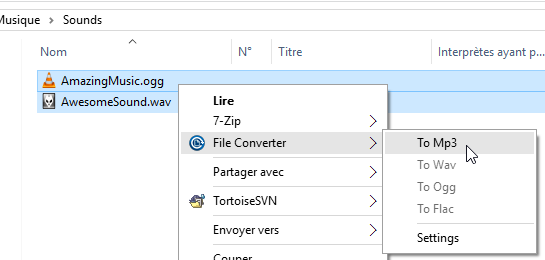
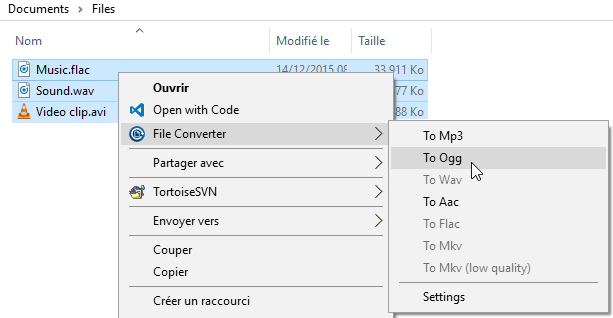
Update screenshots

diff --git a/index.html b/index.html
@@ -9,15 +9,15 @@
     <link rel="stylesheet" type="text/css" href="stylesheets/stylesheet.css" media="screen">
     <link rel="stylesheet" type="text/css" href="stylesheets/github-light.css" media="screen">
 
-  <script>
-    (function(i,s,o,g,r,a,m){i['GoogleAnalyticsObject']=r;i[r]=i[r]||function(){
-    (i[r].q=i[r].q||[]).push(arguments)},i[r].l=1*new Date();a=s.createElement(o),
-    m=s.getElementsByTagName(o)[0];a.async=1;a.src=g;m.parentNode.insertBefore(a,m)
-    })(window,document,'script','//www.google-analytics.com/analytics.js','ga');
-  
-    ga('create', 'UA-71411543-1', 'auto');
-    ga('send', 'pageview');
-  </script>
+    <script>
+      (function(i,s,o,g,r,a,m){i['GoogleAnalyticsObject']=r;i[r]=i[r]||function(){
+      (i[r].q=i[r].q||[]).push(arguments)},i[r].l=1*new Date();a=s.createElement(o),
+      m=s.getElementsByTagName(o)[0];a.async=1;a.src=g;m.parentNode.insertBefore(a,m)
+      })(window,document,'script','//www.google-analytics.com/analytics.js','ga');
+    
+      ga('create', 'UA-71411543-1', 'auto');
+      ga('send', 'pageview');
+    </script>
   </head>
   <body>
     <section class="page-header">
@@ -53,17 +53,17 @@
     <tr>
       <td>Audio</td>
       <td>aiff, ape, avi, bik, cda, flac, flv, m4a, mkv, mov, mp3, mp4, ogg, wav, wma</td>
-      <td>FLAC, AAC, OGG, MP3, WAV</td>
+      <td>flac, aac, ogg, mp3, wav</td>
     </tr>
     <tr>
       <td>Video</td>
       <td>avi, bik, flv, mkv, mov</td>
-      <td>MKV</td>
+      <td>mkv</td>
     </tr>
     <tr>
       <td>Image</td>
       <td>bmp, ico, jpg, jpeg, png, tiff</td>
-      <td>PNG, JPG, ICO</td>
+      <td>png, jpg, ico</td>
     </tr>
   </tbody>
 </table>
@@ -86,8 +86,8 @@
   Downloads
 </h2>
 
-<p>Windows 64 bits installer: <a href="download.html">FileConverter-0.3-x64-setup.msi</a> (~16 Mo)</p>
-<p>Sources (C#/WPF project): <a href="https://github.com/Tichau/FileConverter/tarball/master">FileConverter-v0.3.tar.gz</a> (~11 Mo)</p>
+<p>Windows 64 bits installer: <a href="download.html">FileConverter-0.4-x64-setup.msi</a> (~16 Mo)</p>
+<p>Sources (C#/WPF project): <a href="https://github.com/Tichau/FileConverter/tarball/master">FileConverter-v0.4.tar.gz</a> (~11 Mo)</p>
 
       <footer class="site-footer">
         <span class="site-footer-owner"><a href="https://github.com/Tichau/FileConverter">File Converter</a> is maintained by <a href="https://github.com/Tichau">Adrien Allard</a>.</span>

diff --git a/documentation.html b/documentation.html
@@ -47,28 +47,28 @@ For more informations check the LICENSE file in your installation folder or the 
 <table>
 <thead>
 <tr>
-<th>Category</th>
-<th>Supported output formats</th>
-<th>Compatible input formats</th>
+<th></th>
+<th>From</th>
+<th>To</th>
 </tr>
 </thead>
 <tbody>
-<tr>
-<td>Audio</td>
-<td>FLAC, AAC, OGG, MP3, WAV</td>
-<td>aiff, ape, avi, bik, cda, flac, flv, m4a, mkv, mov, mp3, mp4, ogg, wav, wma</td>
-</tr>
-<tr>
-<td>Video</td>
-<td>MKV</td>
-<td>avi, bik, flv, mkv, mov</td>
-</tr>
-<tr>
-<td>Image</td>
-<td>PNG, JPG, ICO</td>
-<td>bmp, ico, jpg, jpeg, png, tiff</td>
-</tr>
-</tbody>
+    <tr>
+      <td>Audio</td>
+      <td>aiff, ape, avi, bik, cda, flac, flv, m4a, mkv, mov, mp3, mp4, ogg, wav, wma</td>
+      <td>flac, aac, ogg, mp3, wav</td>
+    </tr>
+    <tr>
+      <td>Video</td>
+      <td>avi, bik, flv, mkv, mov</td>
+      <td>mkv</td>
+    </tr>
+    <tr>
+      <td>Image</td>
+      <td>bmp, ico, jpg, jpeg, png, tiff</td>
+      <td>png, jpg, ico</td>
+    </tr>
+  </tbody>
 </table>
 <p><em>Note: If your source file is a video, the conversion to an audio format will extract the audio part of the video.</em></p>
 <p><em>Note 2: The mkv output file format encodes video using H.264 encoder for video and AAC encoder for audio.</em></p>

diff --git a/download.html b/download.html
@@ -7,7 +7,7 @@
     <link href='https://fonts.googleapis.com/css?family=Open+Sans:400,700' rel='stylesheet' type='text/css'>
     <link rel="stylesheet" type="text/css" href="stylesheets/stylesheet.css" media="screen">
     <link rel="stylesheet" type="text/css" href="stylesheets/github-light.css" media="screen">
-	  <meta http-equiv="refresh" content="0; url=https://github.com/Tichau/FileConverter/releases/download/v0.3/FileConverter-0.3-x64-setup.msi" />
+	  <meta http-equiv="refresh" content="0; url=https://github.com/Tichau/FileConverter/releases/download/v0.4/FileConverter-0.4-x64-setup.msi" />
 
     <script>
       (function(i,s,o,g,r,a,m){i['GoogleAnalyticsObject']=r;i[r]=i[r]||function(){
